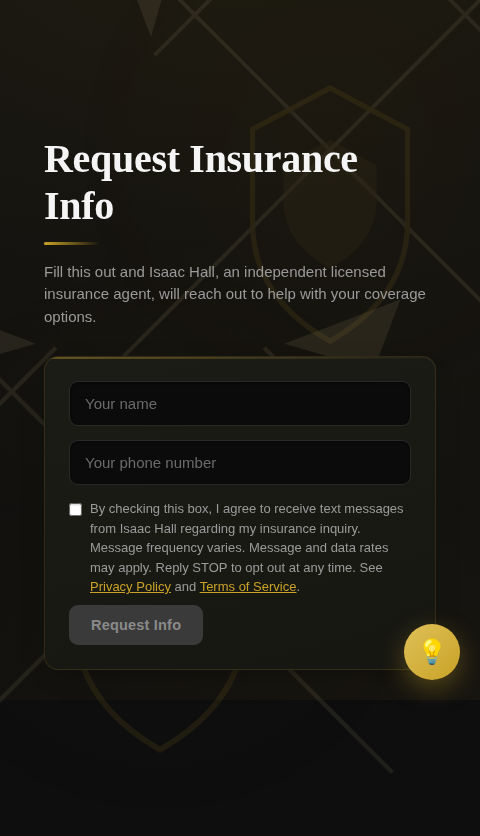
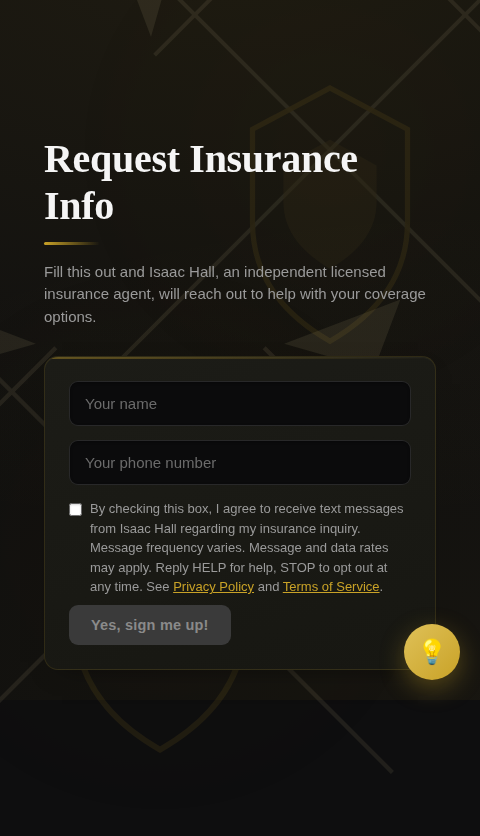
Add HELP instruction and affirmative signup button to opt-in form

Changed region(s): [[0.1875, 0.6531, 0.8125, 0.7775]]

diff --git a/app/components/RequestInfoForm.js b/app/components/RequestInfoForm.js
@@ -53,7 +53,7 @@ export default function RequestInfoForm({ userId, agentName }) {
         <span style={{ fontSize: 13, color: "#9a9a9a", lineHeight: 1.5 }}>
           By checking this box, I agree to receive text messages from {agentName} regarding my
           insurance inquiry. Message frequency varies. Message and data rates may apply. Reply
-          STOP to opt out at any time. See{" "}
+          HELP for help, STOP to opt out at any time. See{" "}
           <a href={`/privacy/${userId}`} target="_blank" rel="noopener noreferrer">Privacy Policy</a>{" "}
           and{" "}
           <a href={`/terms/${userId}`} target="_blank" rel="noopener noreferrer">Terms of Service</a>.
@@ -61,7 +61,7 @@ export default function RequestInfoForm({ userId, agentName }) {
       </div>
 
       <button type="submit" disabled={loading || !consent}>
-        {loading ? "Submitting..." : "Request Info"}
+        {loading ? "Submitting..." : "Yes, sign me up!"}
       </button>
     </form>
   );
